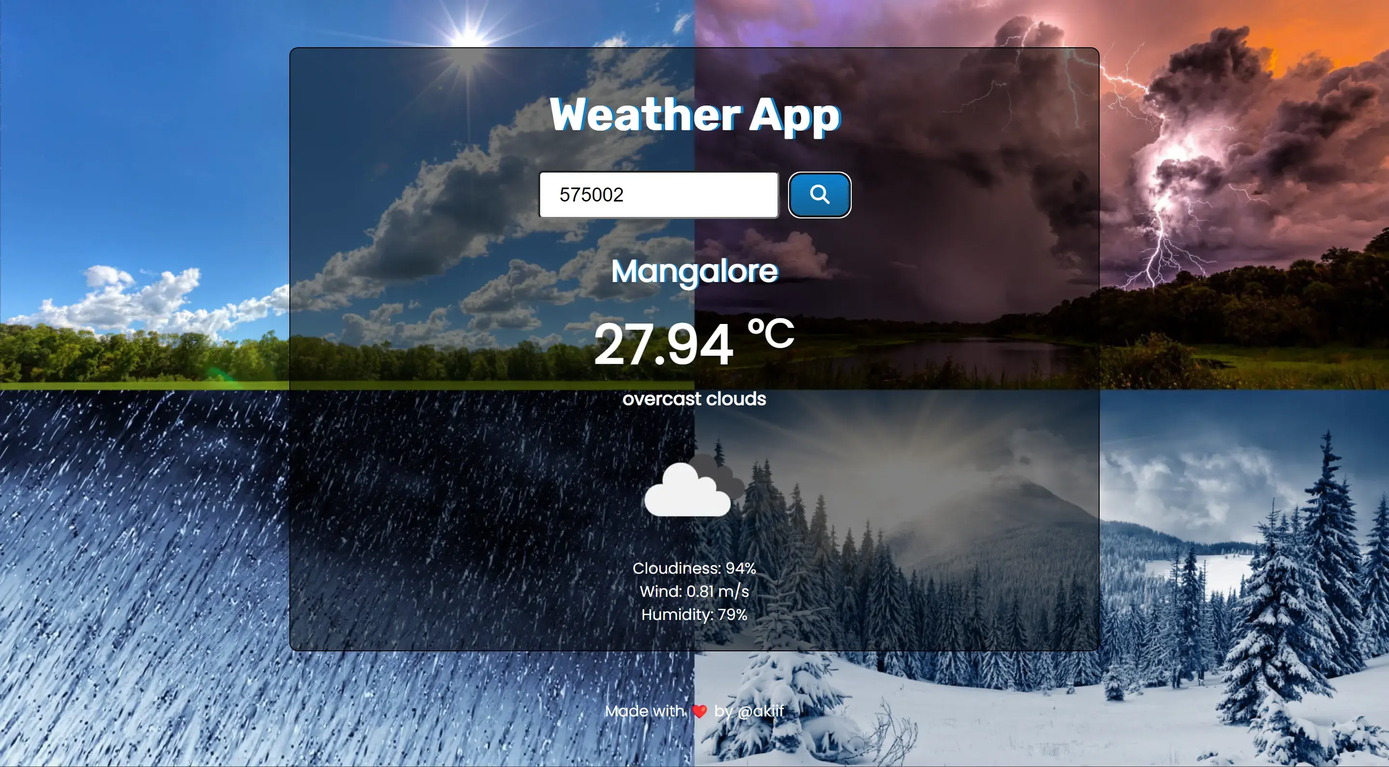
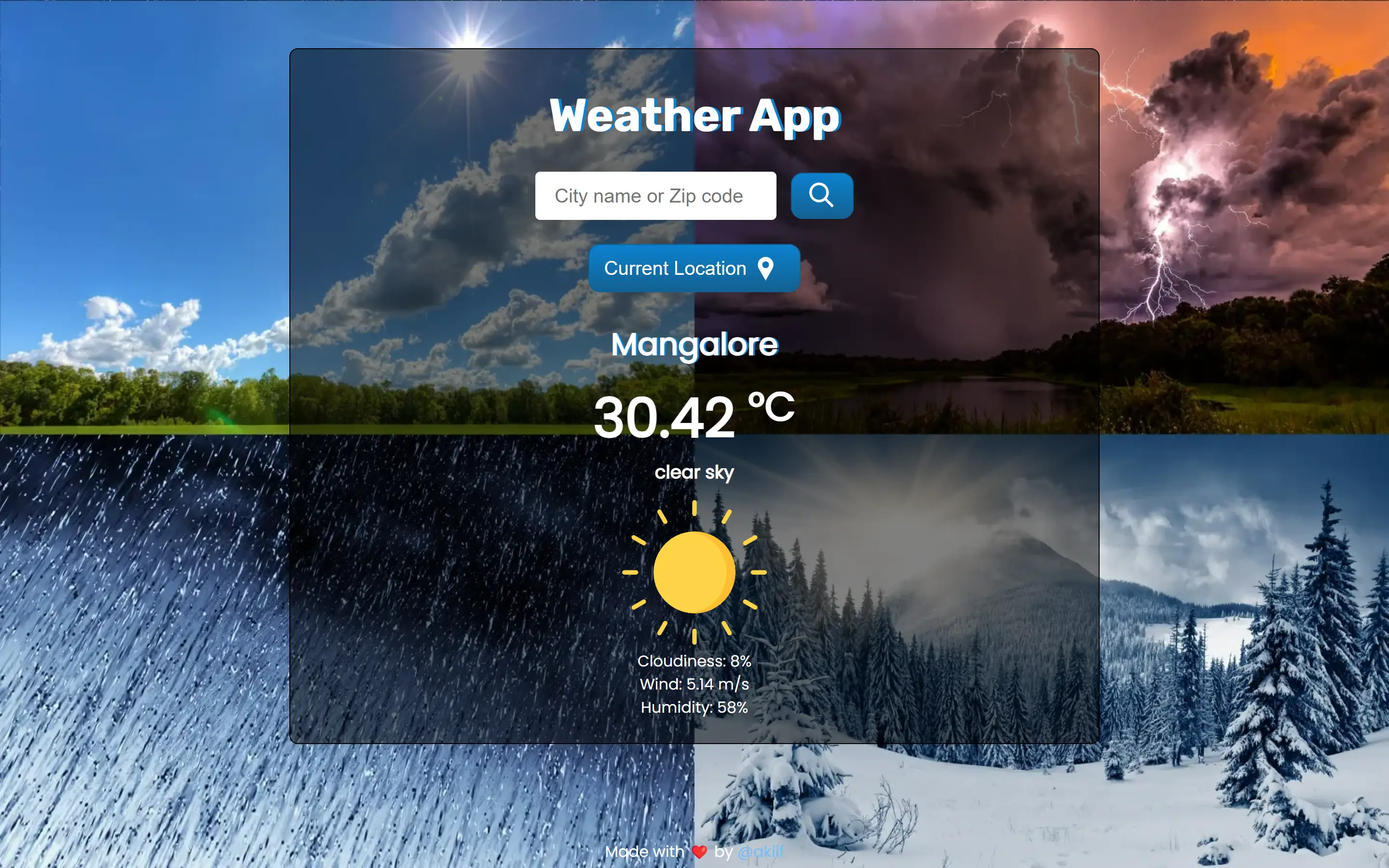
Updated the weather-app project content

diff --git a/src/pages/Projects/projects-list.js b/src/pages/Projects/projects-list.js
@@ -61,8 +61,8 @@ export default [
     id: 5,
     title: 'Weather App',
     slides: WeatherApp,
-    techStack: [Javascript, Html, Css],
-    desc: "A simple weather app which is used to fetch the weather by entering the city name or zip code.",
+    techStack: [ReactJs, Javascript, Html, Css],
+    desc: "A weather app built using React which is used to fetch the weather data from the Open Weather api using the axios library.",
     link: "https://akiif.github.io/weather-app/",
     github: "https://github.com/akiif/weather-app"
   },

diff --git a/src/assets/images/projects/weather-app/weather-app.js b/src/assets/images/projects/weather-app/weather-app.js
@@ -1,3 +1,5 @@
 import WeatherAppMain from "./weather-app.webp";
+import WeatherAppToast from './weather-app-toast.webp';
+import WeatherAppLocation from './weather-app-location.webp'
 
-export default [WeatherAppMain];
+export default [WeatherAppMain, WeatherAppToast, WeatherAppLocation];
